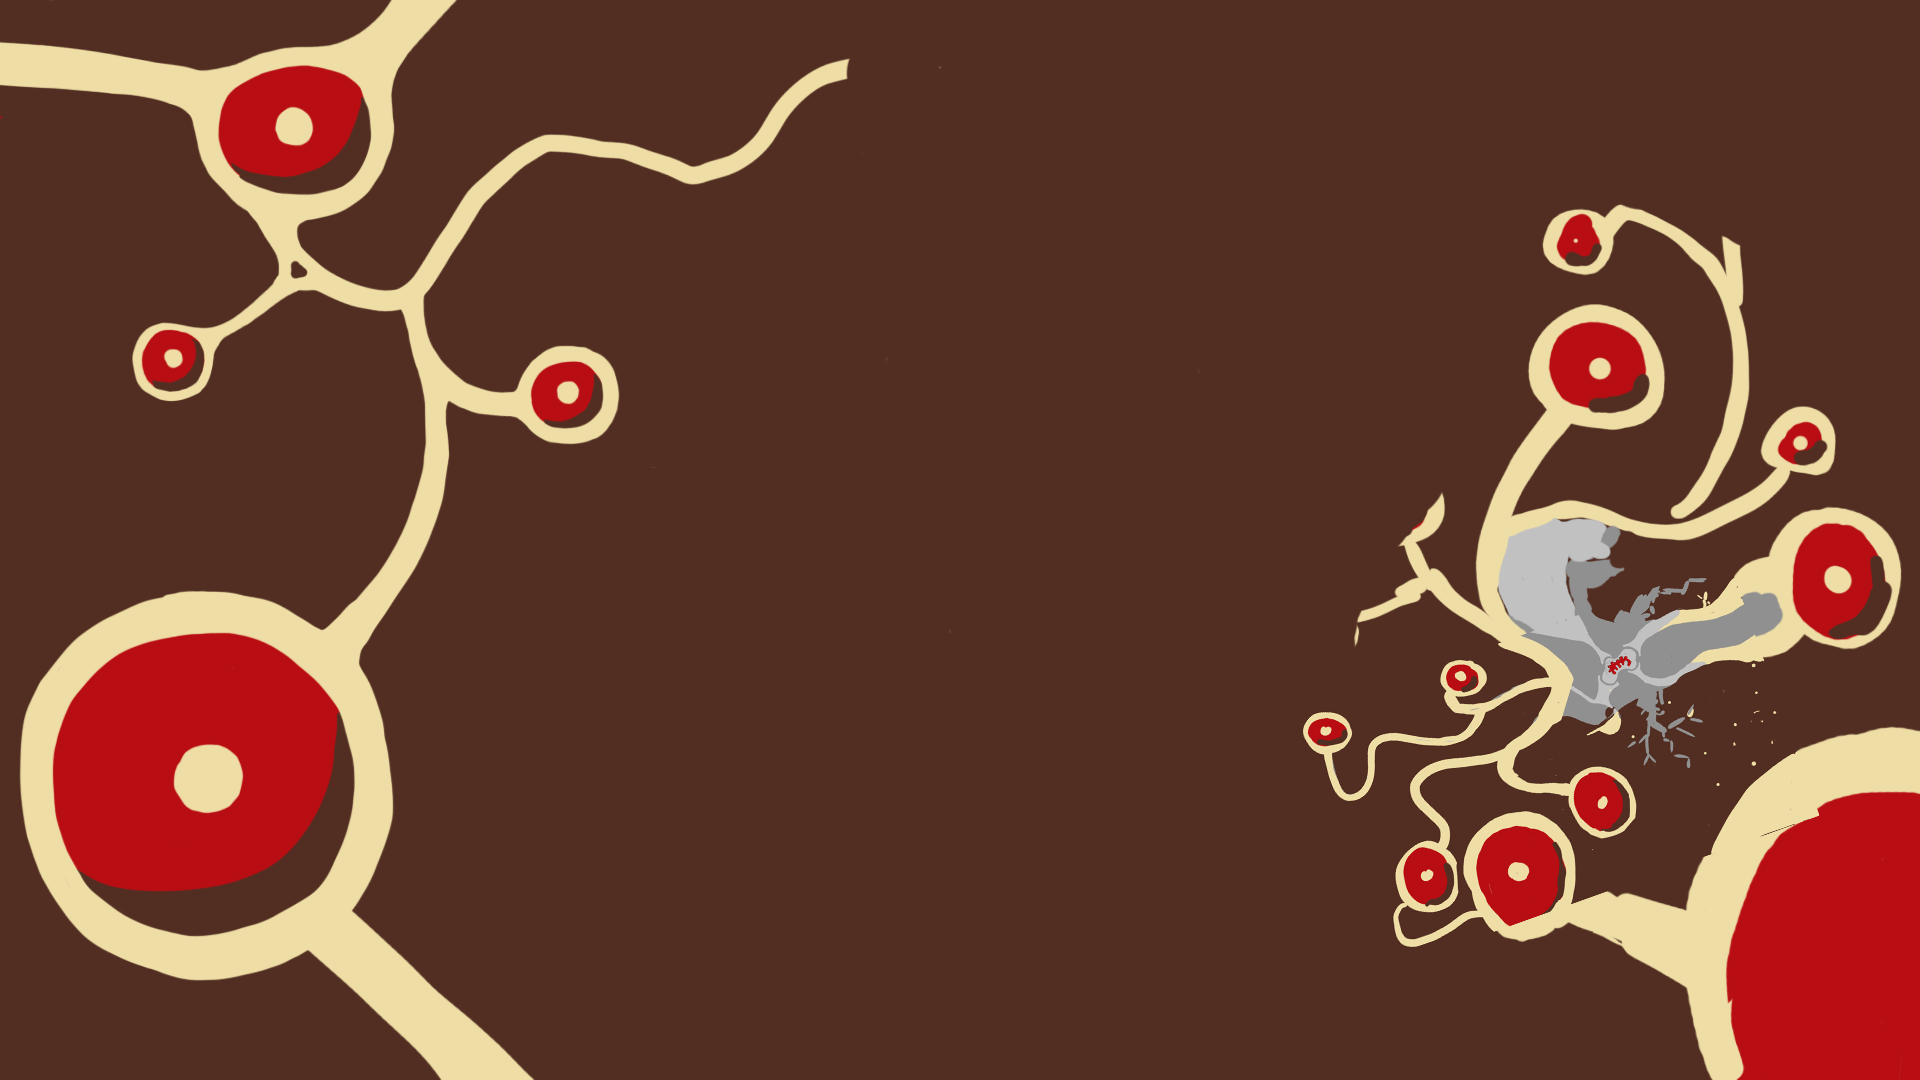
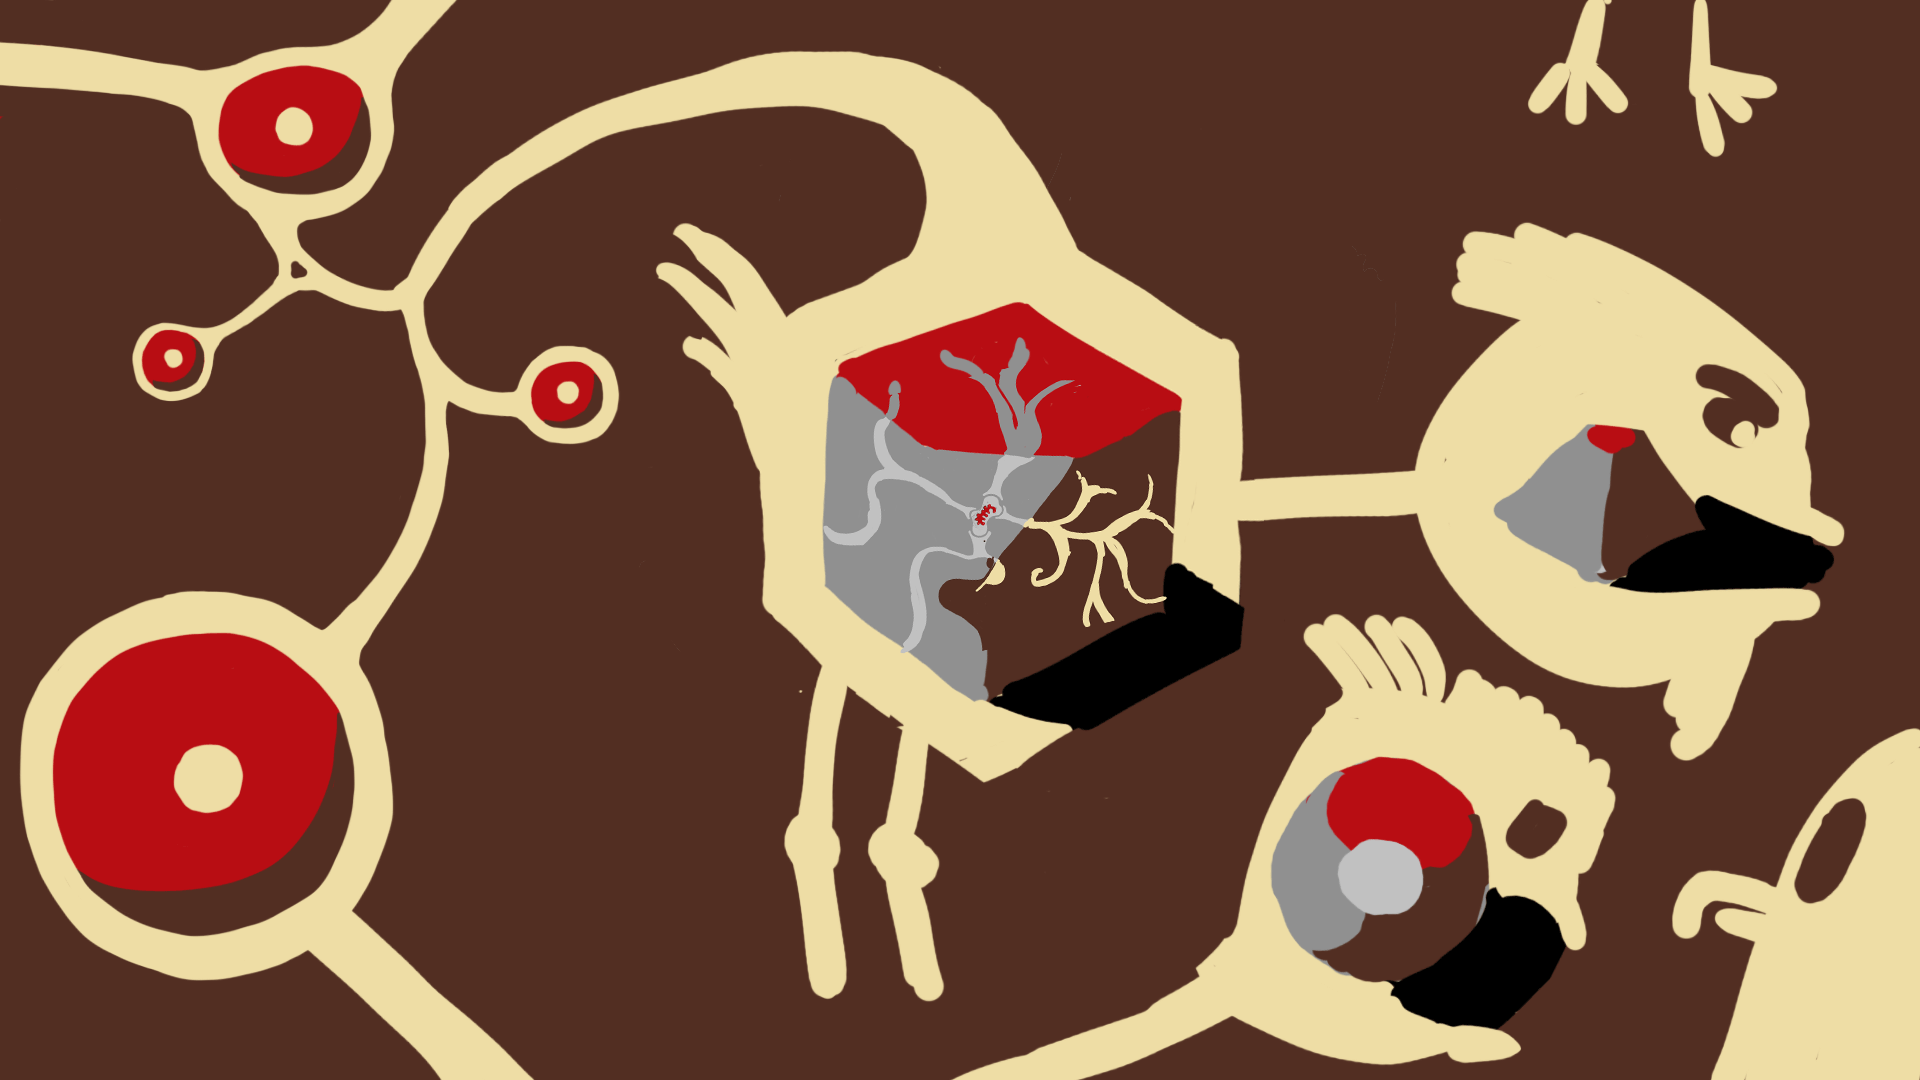
Add lots of stuff

diff --git a/src/skyline.js b/src/skyline.js
@@ -4,59 +4,83 @@
       return 'res/skyline.png';
     }
 
-    render() {
+    constructor(id) {
+      super(id);
+      this.renderTarget = new THREE.WebGLRenderTarget(640, 360, {
+        minFilter: THREE.LinearFilter,
+        magFilter: THREE.LinearFilter,
+        format: THREE.RGBAFormat
+      });
+    }
+
+    update() {
       this.ctx.save();
       this.ctx.scale(this.canvas.width / 1920, this.canvas.width /  1920);
-      this.ctx.globalAlpha = 0.2;
+      this.ctx.globalAlpha = 0.1;
       this.ctx.drawImage(this.imageElement, 0, 0);
       this.ctx.fillStyle = '#eedda5';
       const width = 8;
       this.ctx.globalAlpha = 1;
-      for(let i = 0; i < 6; i++) {
-        for(let j = 0; j < 10; j++) {
-          if((i ^ j ^ (BEAN / 4)) % 5 > 3) {
-            this.ctx.fillStyle = '#eedda5';
-            this.ctx.fillRect(1350 + i * width * 2, 485 + j * width * 1.5, width, width);
-          } else {
-            this.ctx.fillStyle = '#111';
+      if(BEAN >= 384) {
+        for(let i = 0; i < 5; i++) {
+          for(let j = 0; j < 10; j++) {
+            if((i ^ j ^ (BEAN / 4)) % 5 > 3) {
+              this.ctx.fillStyle = '#eedda5';
+              this.ctx.fillRect(1350 + i * width * 2, 485 + j * width * 1.5, width, width);
+            } else {
+              this.ctx.fillStyle = '#111';
+            }
           }
         }
       }
 
-      this.ctx.fillStyle = '#eedda5';
-      if(BEAN%96 >= 48) {
-      this.ctx.fillStyle = '#B80D13';
+      if(BEAN >= 384) {
+        this.ctx.fillStyle = '#eedda5';
+        this.ctx.fillRect(1170, 540 - 10, 5, 5);
+        this.ctx.fillRect(1085, 540 - 25, 5, 5);
+        this.ctx.fillRect(590, 540 + 40, 10, 10);
+
+        if((BEAN % 48) < 24) {
+          this.ctx.fillStyle = '#b80d13';
+          this.ctx.fillRect(1288, 540 - 360, 5, 5);
+        }
+        this.ctx.fillStyle = '#eedda5';
+
+        this.ctx.fillRect(1009, 540 - 50, 2, 100);
+
+        this.ctx.fillRect(997, 540 - 65, 15, 5);
       }
-        switch((BEAN / 3 | 0) % (96 / 3)) {
+
+      this.ctx.fillStyle = '#eedda5';
+        switch(BEAN % 96) {
           case 0:
             this.ctx.fill(new Path2D('M1255 421 l15 1 l -5 -48 l -25 2 Z'));
             break;
-          case 4:
+          case 12:
             this.ctx.fill(new Path2D('M1280 422 h20 l 5 -50 h -30 Z'));
             break;
-          case 8:
+          case 24:
             this.ctx.fill(new Path2D('M1310 422 l15 -1 l 10 -46 l -20 -2 Z'));
             break;
 
-          case 16:
+          case 48 - 4:
             this.ctx.fillRect(1270, 581, 40, 5);
             break;
-          case 17:
+          case 48:
             this.ctx.fillRect(1270, 547, 40, 5);
             break;
-          case 18:
+          case 48 + 8:
             this.ctx.fillRect(1270, 510, 40, 5);
             break;
-          case 19:
+          case 48 + 12 + 8:
             this.ctx.fillRect(1266, 476, 48, 5);
-            break;
-          case 20:
-            this.ctx.fillRect(1270, 581, 40, 5);
             break;
         }
 
       this.ctx.restore();
+    }
 
+    render() {
       this.texture.needsUpdate = true;
       this.outputs.render.setValue(this.texture);
     }

diff --git a/src/blurscopeNode.js b/src/blurscopeNode.js
@@ -1,4 +1,6 @@
 (function (global) {
+    const F = (frame, from, delta) => (frame - FRAME_FOR_BEAN(from)) / (FRAME_FOR_BEAN(from + delta) - FRAME_FOR_BEAN(from));
+
   class blurscopeNode extends NIN.ShaderNode {
     constructor(id, options) {
       options.inputs = {
@@ -16,6 +18,27 @@
       this.uniforms.original.value = this.inputs.original.getValue();
       this.uniforms.x.value = this.inputs.x.getValue();
       this.uniforms.y.value = this.inputs.y.getValue();
+
+      if(BEAN >= 2640 -4  && BEAN < 2640) {
+        this.uniforms.x.value -= easeIn(0, 400, F(frame, 2640 - 2, 2));
+        this.uniforms.y.value -= easeIn(0, 300, F(frame, 2640 - 2, 2));
+      }
+      if(BEAN >= 2640 && BEAN < 2640 + 8) {
+        this.uniforms.x.value -= 400;
+        this.uniforms.y.value -= 300;
+      }
+      if(BEAN >= 2640 + 8 && BEAN < 2640 + 24 - 4) {
+        this.uniforms.x.value += 400;
+        this.uniforms.y.value -= 0;
+      }
+      if(BEAN >= 2640 + 24 - 4 && BEAN < 2640 + 48 - 4) {
+        this.uniforms.x.value -= 300;
+        this.uniforms.y.value += 400;
+      }
+      if(BEAN >= 2640 + 48 - 4 && BEAN < 2640 + 48) {
+        this.uniforms.x.value -= easeIn(300, 0, F(frame, 2640 + 48 - 4, 4));
+        this.uniforms.y.value += easeIn(400, 0, F(frame, 2640 + 48 - 4, 4));
+      }
     }
   }
 

diff --git a/src/nunburstNode.js b/src/nunburstNode.js
@@ -1,10 +1,14 @@
 (function (global) {
-  class starsky2Node extends NIN.ShaderNode {
+  class nunburstNode extends NIN.ShaderNode {
     constructor(id, options) {
       options.inputs = {
+        overlay: new NIN.TextureInput(),
         background: new NIN.TextureInput(),
       };
       super(id, options);
+      this.x = (options.x - 960) || 0;
+      this.y = (options.y - 540) || 0;
+
       this.renderTarget = new THREE.WebGLRenderTarget(640, 360, {
         minFilter: THREE.LinearFilter,
         magFilter: THREE.LinearFilter,
@@ -15,8 +19,10 @@
     update(frame) {
       this.uniforms.frame.value = frame;
       this.uniforms.background.value = this.inputs.background.getValue();
+      this.uniforms.x.value = this.x / 1920;
+      this.uniforms.y.value = this.y / 1080;
     }
   }
 
-  global.starsky2Node = starsky2Node;
+  global.nunburstNode = nunburstNode;
 })(this);

diff --git a/src/bgpatternNode.js b/src/bgpatternNode.js
@@ -20,19 +20,26 @@
       }
       this.zoomThrob *= 0.95;
       if(BEAT) {
+        if(BEAN >= 576) {
+          if(BEAN % 48 == 24) {
+              this.zoomThrob = 5;
+          }
+        }
+
         switch(BEAN) {
           case 192:
           case 288:
           case 372:
           case 384:
             this.zoomThrob = 1;
+            break;
+          case 2640:
+          case 2640 + 8:
+          case 2640 + 24 - 4:
+          case 2640 + 48:
+            this.zoomThrob = 15;
         }
 
-        if(BEAN >= 576) {
-          if(BEAN % 48 == 24) {
-              this.zoomThrob = 5;
-          }
-        }
         /*
         if(BEAN >= 576) {
           switch(BEAN % (96 * 2)) {

diff --git a/src/nuns.js b/src/nuns.js
@@ -22,9 +22,16 @@
 
       this.startAni1 = 1230;
       this.startAni2 = 1342;
+
+      this.renderTarget = new THREE.WebGLRenderTarget(640, 360, {
+        minFilter: THREE.LinearFilter,
+        magFilter: THREE.LinearFilter,
+        format: THREE.RGBAFormat
+      });
     }
 
     render() {
+      this.ctx.clearRect(0, 0, this.canvas.width, this.canvas.height);
       super.render();
       this.ctx.save();
       this.ctx.scale(this.canvas.width / 1920, this.canvas.width /  1920);

diff --git a/src/starskyNode.js b/src/starskyNode.js
@@ -5,6 +5,11 @@
         background: new NIN.TextureInput(),
       };
       super(id, options);
+      this.renderTarget = new THREE.WebGLRenderTarget(640, 360, {
+        minFilter: THREE.LinearFilter,
+        magFilter: THREE.LinearFilter,
+        format: THREE.RGBAFormat
+      });
     }
 
     update(frame) {
